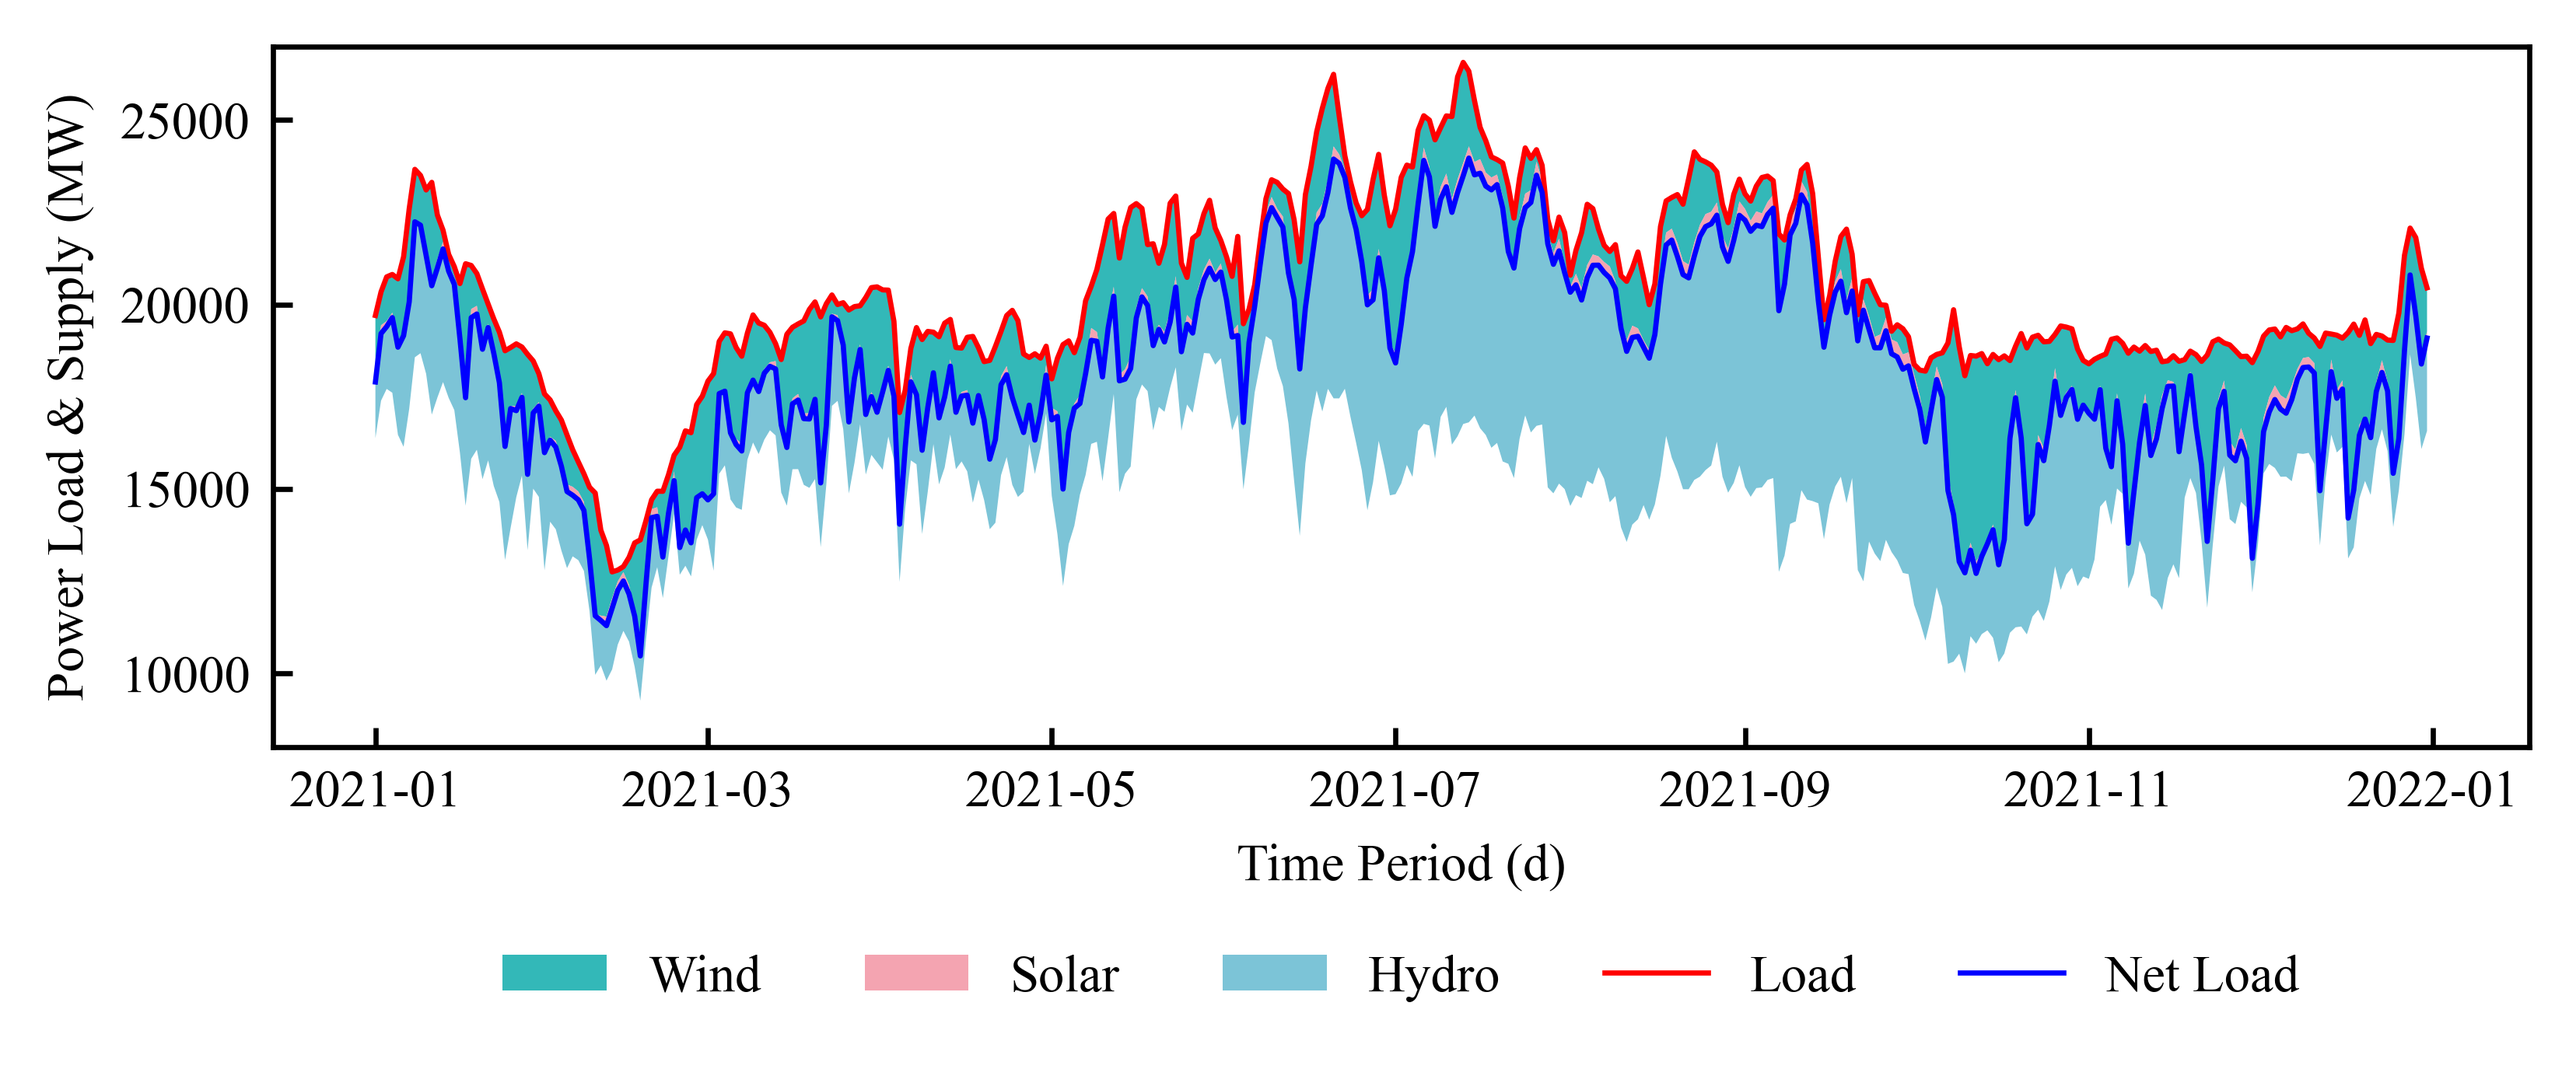
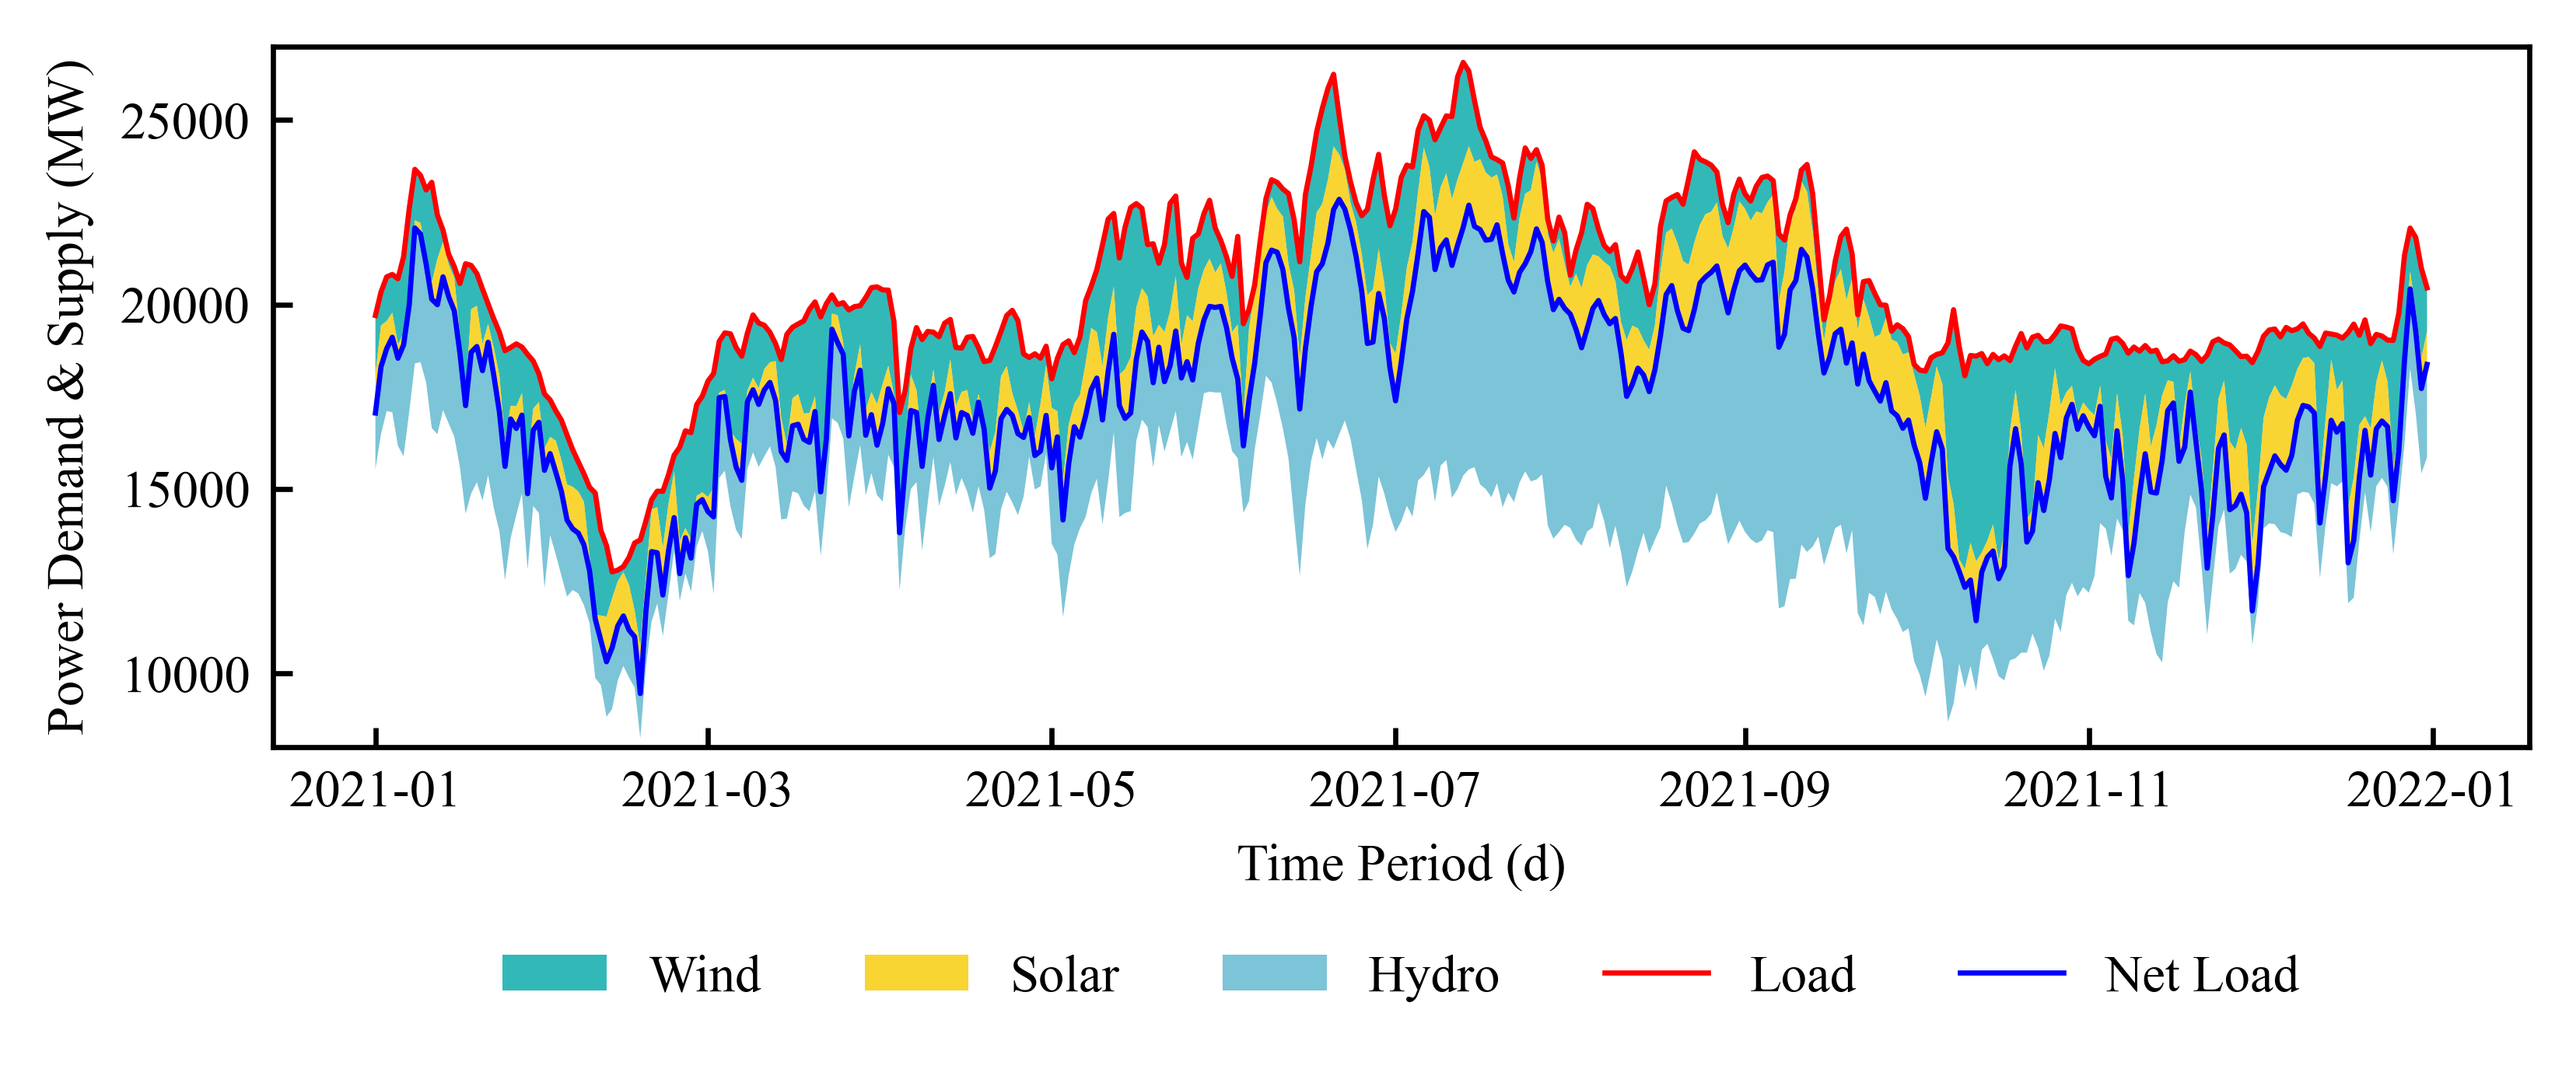
update

Changed region(s): [[0.1244, 0.1527, 0.9641, 0.672], [0.0, 0.0611, 0.0311, 0.672], [0.311, 0.8858, 0.3732, 0.9469]]

diff --git a/_talks/2023-10-04-talk-4.md b/_talks/2023-10-04-talk-4.md
@@ -24,17 +24,17 @@ As the largest traditional renewable energy source, hydropower, especially reser
 
 However, this will not only exacerbate conflicts in hourly-to-decadal and local-to-regional water and energy demands, but also altered the subdaily-to-seasonal hydrological regime, thereby jeopardizing the stability of river ecosystems.
 
-To balance the multi-sectoral demands (including aspects like flow, water, power, and energy) at various temporal and spatial scales , it is imperative to derive sustainable operational rules for reservoir hydropower systems, which fully harness the long-term energy storage potential and short-term load regulation capability of reservoir hydropower with diverse regulation performance, considering the complementarity inherent in natural resources (such as runoff, wind speed, and solar radiation). For example, reservoir with what kind of regulating capacity should shoulder the baseload or hydropeaking at which period of the year, when and what level reservoir should decrease its water
+To balance the multi-sectoral demands (including aspects like flow, water, power, and energy) at various temporal and spatial scales , it is imperative to derive sustainable operational rules for reservoir hydropower systems, which fully harness the long-term energy storage potential and short-term load regulation capability of reservoir hydropower with diverse regulation performance, considering the complementarity inherent in natural resources (such as runoff, wind speed, and solar radiation). 下图2展示了中国一个hydro-baed省级电网 （higher than [Real-time Operating Grid - U.S. Energy Information Administration (EIA)](https://www.eia.gov/electricity/gridmonitor/dashboard/electric_overview/balancing_authority/NYIS), [Real-time Operating Grid - U.S. Energy Information Administration (EIA)](https://www.eia.gov/electricity/gridmonitor/dashboard/electric_overview/balancing_authority/CISO)
 
 
 
 <div style="text-align: center;">
   <img src="http://prelude0324.github.io/academic_pages/images/research_6_fig_5.png#pic_center" alt="Load" style="max-width: 100%; height: auto;" />
 </div>
-
 <div style="text-align: center;">
-<b>Fig. 2.</b> Actual Load and Power Output Process of the GX Power Grid in China.
+<b>Fig. 2.</b> Actual Demand and Supply Process of the GX Power Grid in China.
 </div>
+
 
 
 
@@ -109,7 +109,7 @@ Moreover, China boasts the world's largest and most complex hydropower system. F
 
 研究进展
 
-
+For example, reservoir with what kind of regulating capacity should shoulder the baseload or hydropeaking at which period of the year, when and what level reservoir should decrease its water
 
 预期结果
 
